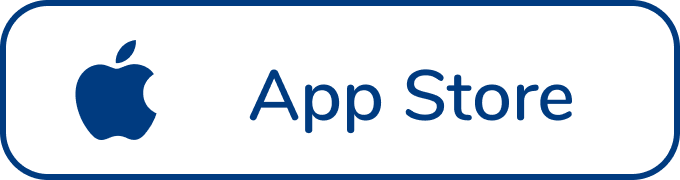
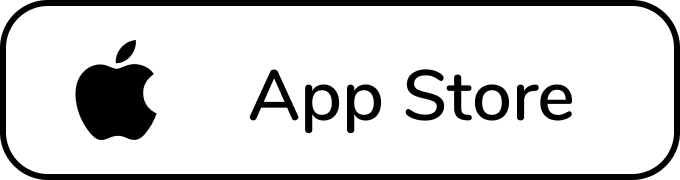
black

Changed region(s): [[0.0, 0.0, 1.0, 1.0], [0.3706, 0.3889, 0.8647, 0.75], [0.0926, 0.2222, 0.2471, 0.7778]]

diff --git a/css/style.css b/css/style.css
@@ -3,7 +3,7 @@
     box-shadow: 0 1px 5px 0 rgba(0,0,0,0.07),0 1px 0 0 rgba(0,0,0,0.03);
     border-bottom: 2px solid white;
     padding:20;
-    background: #003B80;
+    background: #000000;
     transition: all 0.3s ease;
     height: 12vh;
     display: flex;
@@ -30,7 +30,7 @@
   }
 
   .banner-title {
-    color:  #003B80;
+    color:  #000000;
     font-size:3.5em; 
     margin:0;
     font-family: 'Nunito';
@@ -40,7 +40,7 @@
   }
 
   .banner-title-mobile {
-    color:#003B80;
+    color:#000000;
     font-size:1em; 
     font-family: 'Nunito';
     font-weight: bolder;
@@ -140,7 +140,7 @@
   }
 
   .content-title {
-    color:#003B80; 
+    color:#000000; 
     font-size:3em; 
     margin:0;
     font-family: 'Nunito';
@@ -149,7 +149,7 @@
   }
 
   .oui {
-    color:#003B80; 
+    color:#000000; 
     font-size:3em; 
     margin:0;
     padding:20;
@@ -158,7 +158,7 @@
   }
 
   .oui-mobile {
-    color:#003B80; 
+    color:#000000; 
     font-size:3em; 
     margin:0;
     padding:20;
@@ -167,7 +167,7 @@
   }
 
   .title-big-texte {
-    color:#003B80; 
+    color:#000000; 
     font-size:4em; 
     margin:0;
     padding-bottom:20;
@@ -178,7 +178,7 @@
 
   
   .title-texte {
-    color:#003B80; 
+    color:#000000; 
     font-size:1.2em; 
     margin:0;
     font-family: 'Nunito';
@@ -282,7 +282,7 @@
   
 
   .footer {
-    background: #003B80;;
+    background: #000000;;
     display: flex;
     align-items: center;
     justify-content: space-between;
